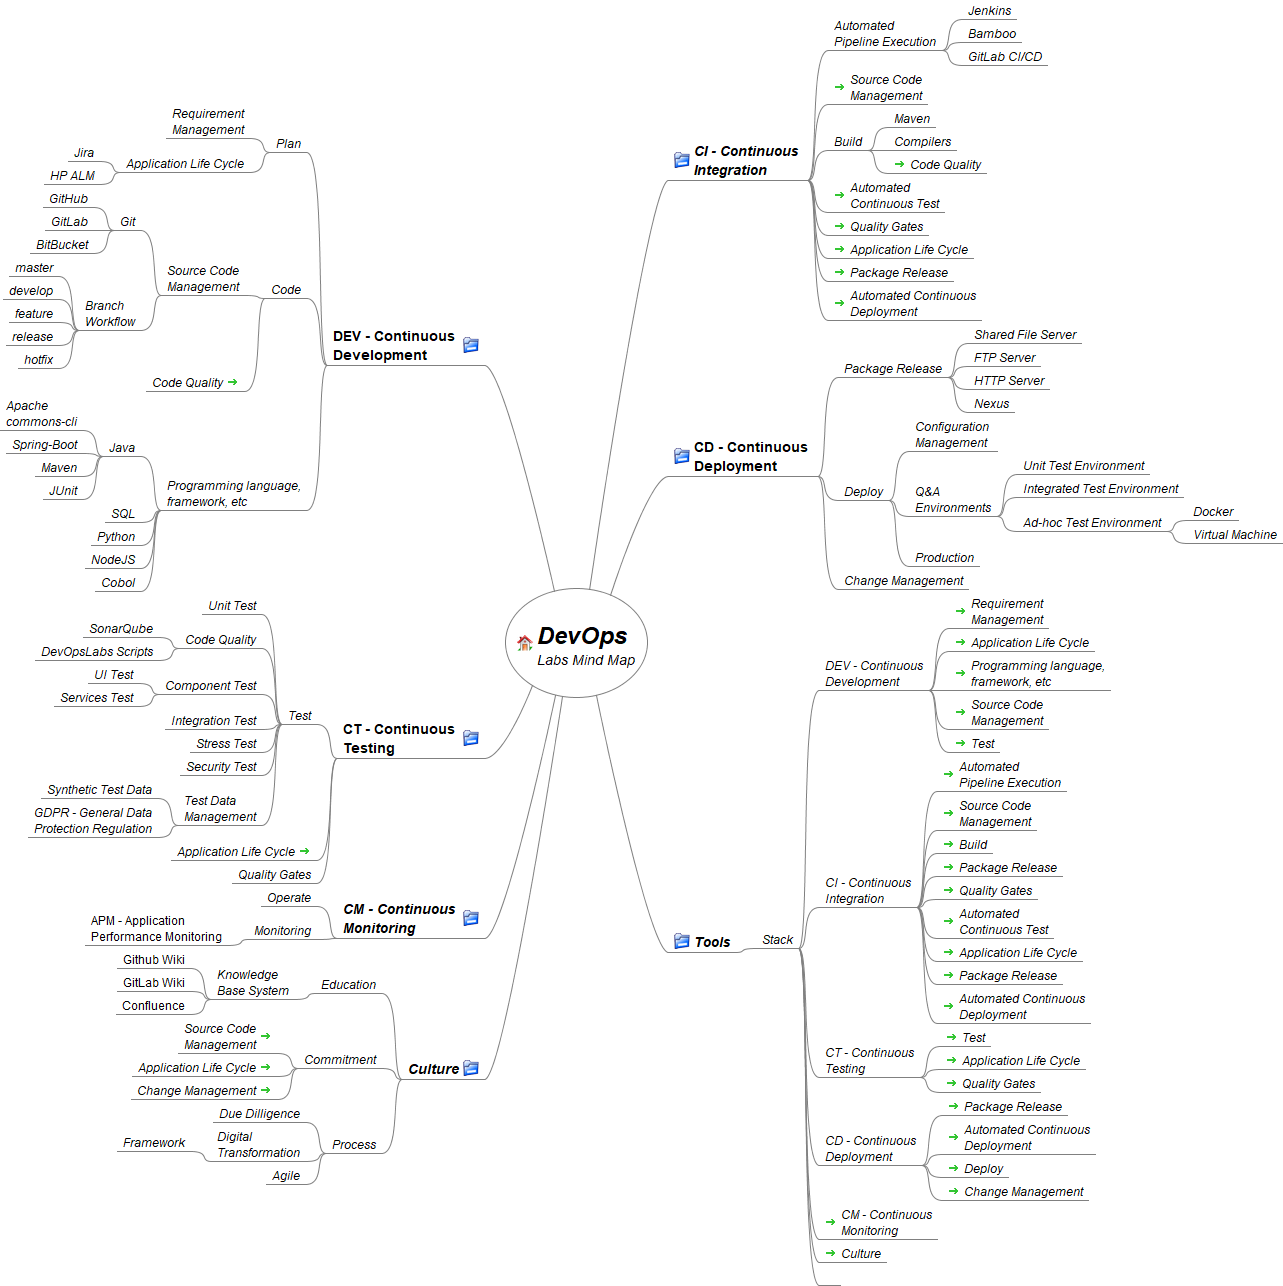
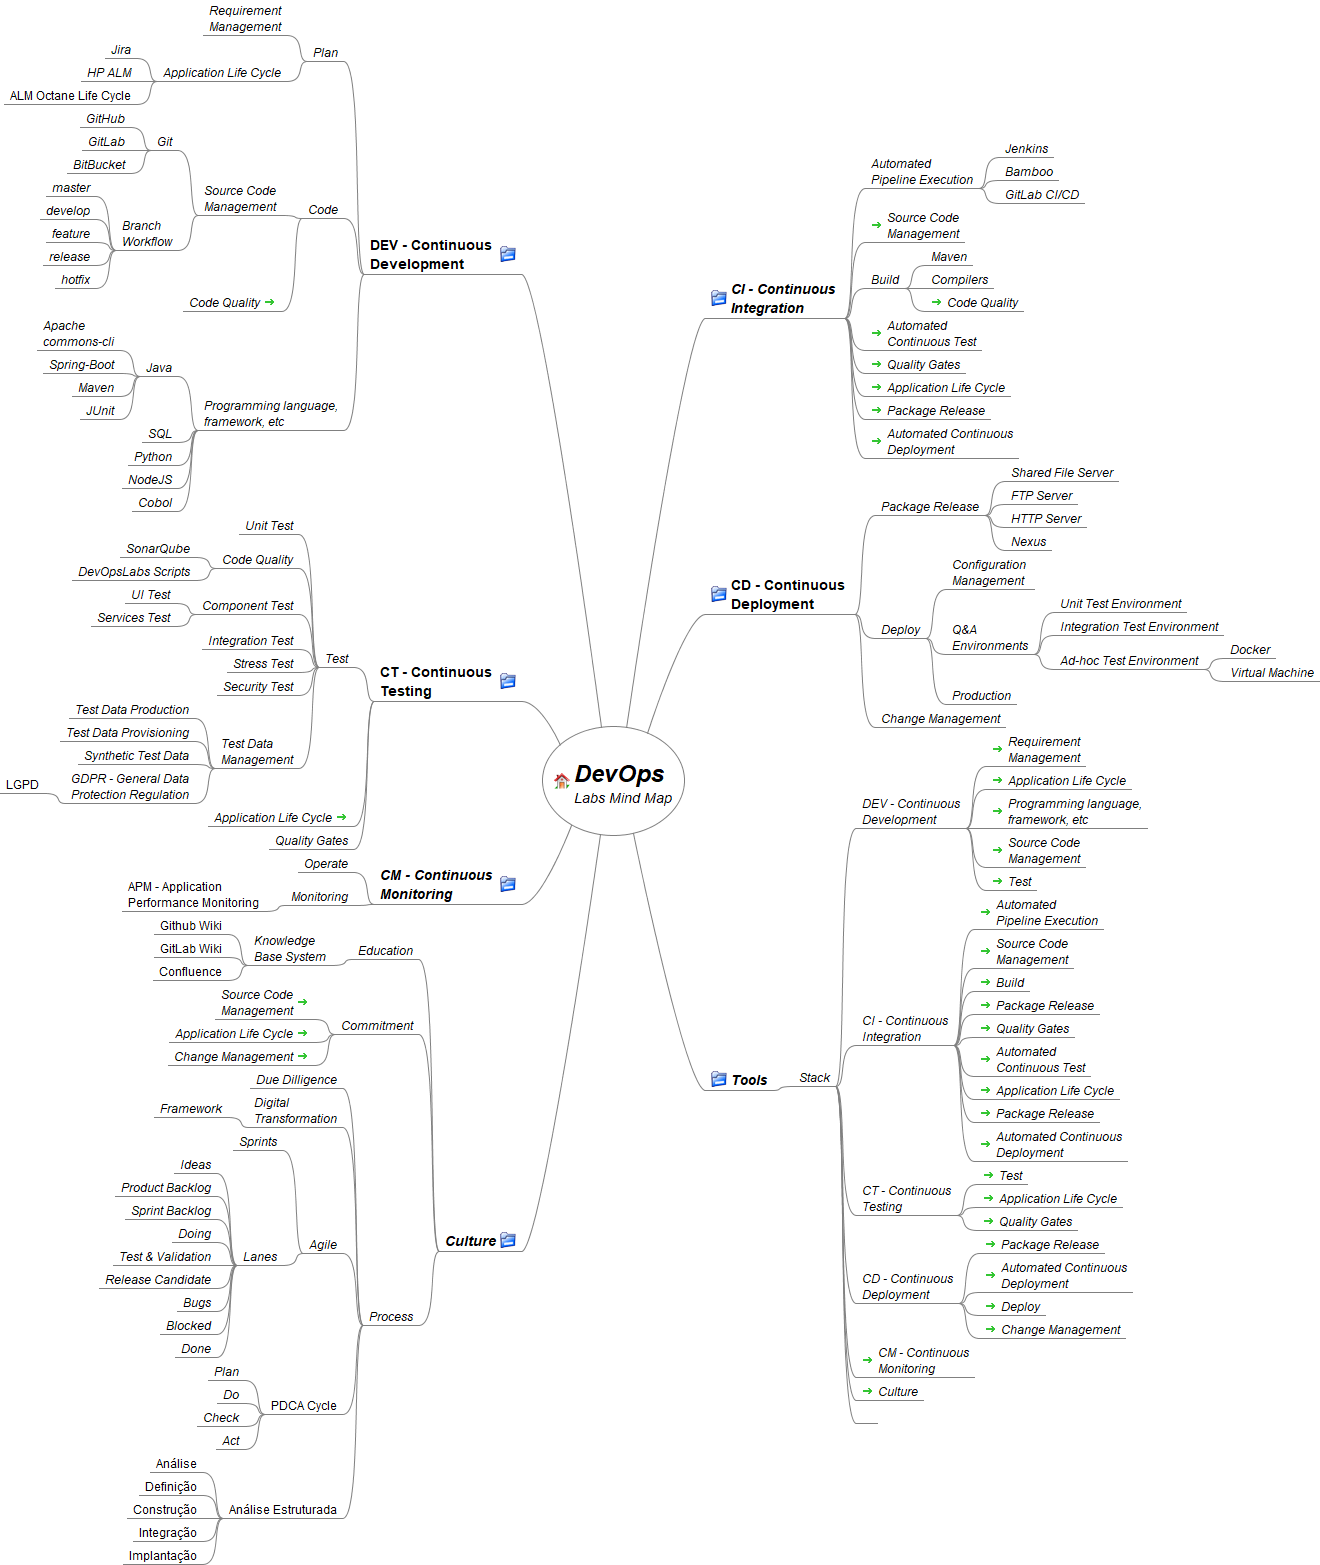
process > metodos: PDCA Cycle, Agile, Analise Estruturada

diff --git a/doc/mind-maps/MindMap DevOps.mm b/doc/mind-maps/MindMap DevOps.mm
@@ -32,7 +32,7 @@
 </html></richcontent>
 <font BOLD="true" NAME="SansSerif" SIZE="12"/>
 <icon BUILTIN="folder"/>
-<node CREATED="1560512150274" FOLDED="true" ID="ID_508662412" MODIFIED="1602895738822" TEXT="Plan">
+<node CREATED="1560512150274" ID="ID_508662412" MODIFIED="1607515206510" TEXT="Plan">
 <font ITALIC="true" NAME="SansSerif" SIZE="12"/>
 <node CREATED="1561258133619" ID="ID_437460015" MODIFIED="1561755103323">
 <richcontent TYPE="NODE"><html>
@@ -50,7 +50,7 @@
 </html></richcontent>
 <font ITALIC="true" NAME="SansSerif" SIZE="12"/>
 </node>
-<node CREATED="1580562665107" FOLDED="true" ID="ID_1334502738" MODIFIED="1602895682942">
+<node CREATED="1580562665107" ID="ID_1334502738" MODIFIED="1607515206687">
 <richcontent TYPE="NODE"><html>
   <head>
     
@@ -71,9 +71,9 @@
 <node CREATED="1602895522813" ID="ID_898859875" MODIFIED="1602895528495" TEXT="ALM Octane Life Cycle"/>
 </node>
 </node>
-<node CREATED="1560512156115" FOLDED="true" ID="ID_718213434" MODIFIED="1602895738822" TEXT="Code">
+<node CREATED="1560512156115" ID="ID_718213434" MODIFIED="1607515206515" TEXT="Code">
 <font ITALIC="true" NAME="SansSerif" SIZE="12"/>
-<node CREATED="1561256637139" FOLDED="true" ID="ID_1263394487" MODIFIED="1602895682943">
+<node CREATED="1561256637139" ID="ID_1263394487" MODIFIED="1607515206691">
 <richcontent TYPE="NODE"><html>
   <head>
     
@@ -88,7 +88,7 @@
   </body>
 </html></richcontent>
 <font ITALIC="true" NAME="SansSerif" SIZE="12"/>
-<node CREATED="1561754399949" FOLDED="true" ID="ID_113286676" MODIFIED="1602895682636" TEXT="Git">
+<node CREATED="1561754399949" ID="ID_113286676" MODIFIED="1607515206853" TEXT="Git">
 <font ITALIC="true" NAME="SansSerif" SIZE="12"/>
 <node CREATED="1561754404189" ID="ID_398705085" MODIFIED="1561755103323" TEXT="GitHub">
 <font ITALIC="true" NAME="SansSerif" SIZE="12"/>
@@ -100,7 +100,7 @@
 <font ITALIC="true" NAME="SansSerif" SIZE="12"/>
 </node>
 </node>
-<node CREATED="1561755369994" FOLDED="true" ID="ID_481670892" MODIFIED="1602895682636">
+<node CREATED="1561755369994" ID="ID_481670892" MODIFIED="1607515206857">
 <richcontent TYPE="NODE"><html>
   <head>
     
@@ -136,7 +136,7 @@
 <font ITALIC="true" NAME="SansSerif" SIZE="12"/>
 </node>
 </node>
-<node CREATED="1561305933484" FOLDED="true" ID="ID_876638900" MODIFIED="1602895738822">
+<node CREATED="1561305933484" ID="ID_876638900" MODIFIED="1607515206520">
 <richcontent TYPE="NODE"><html>
   <head>
     
@@ -151,7 +151,7 @@
   </body>
 </html></richcontent>
 <font ITALIC="true" NAME="SansSerif" SIZE="12"/>
-<node CREATED="1561306068484" FOLDED="true" ID="ID_336553295" MODIFIED="1602895682943" TEXT="Java">
+<node CREATED="1561306068484" ID="ID_336553295" MODIFIED="1607515206695" TEXT="Java">
 <font ITALIC="true" NAME="SansSerif" SIZE="12"/>
 <node CREATED="1561754703015" ID="ID_230933305" MODIFIED="1561755525629">
 <richcontent TYPE="NODE"><html>
@@ -219,12 +219,12 @@
 </html></richcontent>
 <font BOLD="true" NAME="SansSerif" SIZE="12"/>
 <icon BUILTIN="folder"/>
-<node CREATED="1560512179567" FOLDED="true" ID="ID_982319677" MODIFIED="1602895738822" TEXT="Test">
+<node CREATED="1560512179567" ID="ID_982319677" MODIFIED="1607515206528" TEXT="Test">
 <font ITALIC="true" NAME="SansSerif" SIZE="12"/>
 <node CREATED="1561256035460" ID="ID_1328115742" MODIFIED="1561755103323" TEXT="Unit Test">
 <font ITALIC="true" NAME="SansSerif" SIZE="12"/>
 </node>
-<node CREATED="1561756305611" FOLDED="true" ID="ID_1958808507" MODIFIED="1602895682944" TEXT="Code Quality">
+<node CREATED="1561756305611" ID="ID_1958808507" MODIFIED="1607515206697" TEXT="Code Quality">
 <font ITALIC="true" NAME="SansSerif" SIZE="12"/>
 <node CREATED="1561756651294" ID="ID_879888725" MODIFIED="1561756656208" TEXT="SonarQube">
 <font ITALIC="true" NAME="SansSerif" SIZE="12"/>
@@ -243,7 +243,7 @@
 <font ITALIC="true" NAME="SansSerif" SIZE="12"/>
 </node>
 </node>
-<node CREATED="1561754752432" FOLDED="true" ID="ID_10616941" MODIFIED="1602895682944" TEXT="Component Test">
+<node CREATED="1561754752432" ID="ID_10616941" MODIFIED="1607515206699" TEXT="Component Test">
 <font ITALIC="true" NAME="SansSerif" SIZE="12"/>
 <node CREATED="1561754803770" ID="ID_937249534" MODIFIED="1561755103323" TEXT="UI Test">
 <font ITALIC="true" NAME="SansSerif" SIZE="12"/>
@@ -261,7 +261,7 @@
 <node CREATED="1580563017539" ID="ID_642069048" MODIFIED="1580563021921" TEXT="Security Test">
 <font ITALIC="true" NAME="SansSerif" SIZE="12"/>
 </node>
-<node CREATED="1561754879897" FOLDED="true" ID="ID_1210781947" MODIFIED="1602895682944">
+<node CREATED="1561754879897" ID="ID_1210781947" MODIFIED="1607515206703">
 <richcontent TYPE="NODE"><html>
   <head>
     
@@ -285,7 +285,7 @@
 <node CREATED="1580563054120" ID="ID_855842324" MODIFIED="1580563074846" TEXT="Synthetic Test Data">
 <font ITALIC="true" NAME="SansSerif" SIZE="12"/>
 </node>
-<node CREATED="1580563083813" FOLDED="true" ID="ID_1522874440" MODIFIED="1602895682636">
+<node CREATED="1580563083813" ID="ID_1522874440" MODIFIED="1607515206858">
 <richcontent TYPE="NODE"><html>
   <head>
     
@@ -330,7 +330,7 @@
 <node CREATED="1560512194023" ID="ID_1743855136" MODIFIED="1561754323744" TEXT="Operate">
 <font ITALIC="true" NAME="SansSerif" SIZE="12"/>
 </node>
-<node CREATED="1560512197120" FOLDED="true" ID="ID_1998879544" MODIFIED="1602895738822" TEXT="Monitoring">
+<node CREATED="1560512197120" ID="ID_1998879544" MODIFIED="1607515206530" TEXT="Monitoring">
 <font ITALIC="true" NAME="SansSerif" SIZE="12"/>
 <node CREATED="1580563670439" ID="ID_615061923" MODIFIED="1580563686687">
 <richcontent TYPE="NODE"><html>
@@ -365,7 +365,7 @@
 </html></richcontent>
 <font ITALIC="true" NAME="SansSerif" SIZE="12"/>
 <icon BUILTIN="folder"/>
-<node CREATED="1561258037747" FOLDED="true" ID="ID_1932818956" MODIFIED="1602895738822">
+<node CREATED="1561258037747" ID="ID_1932818956" MODIFIED="1607515206533">
 <richcontent TYPE="NODE"><html>
   <head>
     
@@ -406,7 +406,7 @@
 </html></richcontent>
 <font ITALIC="true" NAME="SansSerif" SIZE="12"/>
 </node>
-<node CREATED="1560512177181" FOLDED="true" ID="ID_931000248" MODIFIED="1602895738822" TEXT="Build">
+<node CREATED="1560512177181" ID="ID_931000248" MODIFIED="1607515206536" TEXT="Build">
 <font ITALIC="true" NAME="SansSerif" SIZE="12"/>
 <node CREATED="1561754974588" ID="ID_111914914" MODIFIED="1561755103323" TEXT="Maven">
 <font ITALIC="true" NAME="SansSerif" SIZE="12"/>
@@ -476,7 +476,7 @@
 </html></richcontent>
 <font BOLD="true" NAME="SansSerif" SIZE="12"/>
 <icon BUILTIN="folder"/>
-<node CREATED="1560512185562" FOLDED="true" ID="ID_579638188" MODIFIED="1602895738822" TEXT="Package Release">
+<node CREATED="1560512185562" ID="ID_579638188" MODIFIED="1607515206539" TEXT="Package Release">
 <font ITALIC="true" NAME="SansSerif" SIZE="12"/>
 <node CREATED="1580816442000" ID="ID_277895464" MODIFIED="1580816785944" TEXT="Shared File Server">
 <font ITALIC="true" NAME="SansSerif" SIZE="12"/>
@@ -491,7 +491,7 @@
 <font ITALIC="true" NAME="SansSerif" SIZE="12"/>
 </node>
 </node>
-<node CREATED="1560512187847" FOLDED="true" ID="ID_1244701246" MODIFIED="1602895738822" TEXT="Deploy">
+<node CREATED="1560512187847" ID="ID_1244701246" MODIFIED="1607515206544" TEXT="Deploy">
 <font ITALIC="true" NAME="SansSerif" SIZE="12"/>
 <node CREATED="1561905635985" ID="ID_1304756611" MODIFIED="1561905649930">
 <richcontent TYPE="NODE"><html>
@@ -508,7 +508,7 @@
   </body>
 </html></richcontent>
 </node>
-<node CREATED="1561755141295" FOLDED="true" ID="ID_1018176172" MODIFIED="1602895682945">
+<node CREATED="1561755141295" ID="ID_1018176172" MODIFIED="1607515206706">
 <richcontent TYPE="NODE"><html>
   <head>
     
@@ -529,7 +529,7 @@
 <node CREATED="1580563800105" ID="ID_1282979503" MODIFIED="1581337032876" TEXT="Integration Test Environment">
 <font ITALIC="true" NAME="SansSerif" SIZE="12"/>
 </node>
-<node CREATED="1580563834563" FOLDED="true" ID="ID_585020028" MODIFIED="1602895682636" TEXT="Ad-hoc Test Environment">
+<node CREATED="1580563834563" ID="ID_585020028" MODIFIED="1607515206859" TEXT="Ad-hoc Test Environment">
 <font ITALIC="true" NAME="SansSerif" SIZE="12"/>
 <node CREATED="1580565271301" ID="ID_1103923230" MODIFIED="1580565274385" TEXT="Docker">
 <font ITALIC="true" NAME="SansSerif" SIZE="12"/>
@@ -560,9 +560,9 @@
 </html></richcontent>
 <font ITALIC="true" NAME="SansSerif" SIZE="12"/>
 <icon BUILTIN="folder"/>
-<node CREATED="1561213490096" FOLDED="true" ID="ID_112888288" MODIFIED="1602895738822" TEXT="Stack">
+<node CREATED="1561213490096" ID="ID_112888288" MODIFIED="1607515206555" TEXT="Stack">
 <font ITALIC="true" NAME="SansSerif" SIZE="12"/>
-<node CREATED="1561754196067" FOLDED="true" ID="ID_185870057" MODIFIED="1602895682945">
+<node CREATED="1561754196067" ID="ID_185870057" MODIFIED="1607515206712">
 <richcontent TYPE="NODE"><html>
   <head>
     
@@ -642,7 +642,7 @@
 <font ITALIC="true" NAME="SansSerif" SIZE="12"/>
 </node>
 </node>
-<node CREATED="1561754239862" FOLDED="true" ID="ID_1478510419" MODIFIED="1602895682946">
+<node CREATED="1561754239862" ID="ID_1478510419" MODIFIED="1607515206723">
 <richcontent TYPE="NODE"><html>
   <head>
     
@@ -737,7 +737,7 @@
 <font ITALIC="true" NAME="SansSerif" SIZE="12"/>
 </node>
 </node>
-<node CREATED="1561754199360" FOLDED="true" ID="ID_657577180" MODIFIED="1602895682946">
+<node CREATED="1561754199360" ID="ID_657577180" MODIFIED="1607515206725">
 <richcontent TYPE="NODE"><html>
   <head>
     
@@ -762,7 +762,7 @@
 <font ITALIC="true" NAME="SansSerif" SIZE="12"/>
 </node>
 </node>
-<node CREATED="1561754203562" FOLDED="true" ID="ID_1972211364" MODIFIED="1602895682947">
+<node CREATED="1561754203562" ID="ID_1972211364" MODIFIED="1607515206732">
 <richcontent TYPE="NODE"><html>
   <head>
     
@@ -838,9 +838,9 @@
 </html></richcontent>
 <font ITALIC="true" NAME="SansSerif" SIZE="12"/>
 <icon BUILTIN="folder"/>
-<node CREATED="1561156922814" FOLDED="true" ID="ID_284583337" MODIFIED="1602895738822" TEXT="Education">
+<node CREATED="1561156922814" ID="ID_284583337" MODIFIED="1607514804248" TEXT="Education">
 <font ITALIC="true" NAME="SansSerif" SIZE="12"/>
-<node CREATED="1561756061622" FOLDED="true" ID="ID_1195832005" MODIFIED="1602895682947">
+<node CREATED="1561756061622" ID="ID_1195832005" MODIFIED="1607515206734">
 <richcontent TYPE="NODE"><html>
   <head>
     
@@ -860,7 +860,7 @@
 <node CREATED="1561756183759" ID="ID_1090451672" MODIFIED="1580945700639" TEXT="Confluence"/>
 </node>
 </node>
-<node CREATED="1561156922814" FOLDED="true" ID="ID_423511767" MODIFIED="1602895738822" TEXT="Commitment">
+<node CREATED="1561156922814" ID="ID_423511767" MODIFIED="1607514804263" TEXT="Commitment">
 <font ITALIC="true" NAME="SansSerif" SIZE="12"/>
 <node CREATED="1561306436907" ID="ID_1587091865" LINK="#ID_1263394487" MODIFIED="1580564978495">
 <richcontent TYPE="NODE"><html>
@@ -885,12 +885,12 @@
 <font ITALIC="true" NAME="SansSerif" SIZE="12"/>
 </node>
 </node>
-<node CREATED="1561755642554" FOLDED="true" ID="ID_666309831" MODIFIED="1602895738822" TEXT="Process">
+<node CREATED="1561755642554" ID="ID_666309831" MODIFIED="1607514804268" TEXT="Process">
 <font ITALIC="true" NAME="SansSerif" SIZE="12"/>
 <node CREATED="1561755728910" ID="ID_1505249018" MODIFIED="1561755735589" TEXT="Due Dilligence">
 <font ITALIC="true" NAME="SansSerif" SIZE="12"/>
 </node>
-<node CREATED="1561757101309" FOLDED="true" ID="ID_815982526" MODIFIED="1602895682947">
+<node CREATED="1561757101309" ID="ID_815982526" MODIFIED="1607515206735">
 <richcontent TYPE="NODE"><html>
   <head>
     
@@ -909,8 +909,62 @@
 <font ITALIC="true" NAME="SansSerif" SIZE="12"/>
 </node>
 </node>
-<node CREATED="1580947795060" ID="ID_1786720944" MODIFIED="1580947798239" TEXT="Agile">
+<node CREATED="1580947795060" ID="ID_1786720944" MODIFIED="1607515206737" TEXT="Agile">
 <font ITALIC="true" NAME="SansSerif" SIZE="12"/>
+<node CREATED="1607515002118" ID="ID_3133484" MODIFIED="1607515006372" TEXT="Sprints">
+<font ITALIC="true" NAME="SansSerif" SIZE="12"/>
+</node>
+<node CREATED="1607515009501" ID="ID_1288847739" MODIFIED="1607515206863" TEXT="Lanes">
+<font ITALIC="true" NAME="SansSerif" SIZE="12"/>
+<node CREATED="1607515075439" ID="ID_126674401" MODIFIED="1607515198728" TEXT="Ideas">
+<font ITALIC="true" NAME="SansSerif" SIZE="12"/>
+</node>
+<node CREATED="1607515097583" ID="ID_21580604" MODIFIED="1607515198728" TEXT="Product Backlog">
+<font ITALIC="true" NAME="SansSerif" SIZE="12"/>
+</node>
+<node CREATED="1607515119261" ID="ID_891886488" MODIFIED="1607515198729" TEXT="Sprint Backlog">
+<font ITALIC="true" NAME="SansSerif" SIZE="12"/>
+</node>
+<node CREATED="1607515125025" ID="ID_613734197" MODIFIED="1607515198729" TEXT="Doing">
+<font ITALIC="true" NAME="SansSerif" SIZE="12"/>
+</node>
+<node CREATED="1607515131184" ID="ID_692133258" MODIFIED="1607515198729" TEXT="Test &amp; Validation">
+<font ITALIC="true" NAME="SansSerif" SIZE="12"/>
+</node>
+<node CREATED="1607515152677" ID="ID_547789920" MODIFIED="1607515198729" TEXT="Release Candidate">
+<font ITALIC="true" NAME="SansSerif" SIZE="12"/>
+</node>
+<node CREATED="1607515159703" ID="ID_173866638" MODIFIED="1607515198729" TEXT="Bugs">
+<font ITALIC="true" NAME="SansSerif" SIZE="12"/>
+</node>
+<node CREATED="1607515180781" ID="ID_866439092" MODIFIED="1607515198729" TEXT="Blocked">
+<font ITALIC="true" NAME="SansSerif" SIZE="12"/>
+</node>
+<node CREATED="1607515193574" ID="ID_857533616" MODIFIED="1607515198729" TEXT="Done">
+<font ITALIC="true" NAME="SansSerif" SIZE="12"/>
+</node>
+</node>
+</node>
+<node CREATED="1607514858828" ID="ID_521891188" MODIFIED="1607515206740" TEXT="PDCA Cycle">
+<node CREATED="1607515022690" ID="ID_1985276381" MODIFIED="1607515033624" TEXT="Plan">
+<font ITALIC="true" NAME="SansSerif" SIZE="12"/>
+</node>
+<node CREATED="1607515025663" ID="ID_1327775786" MODIFIED="1607515033624" TEXT="Do">
+<font ITALIC="true" NAME="SansSerif" SIZE="12"/>
+</node>
+<node CREATED="1607515027367" ID="ID_1910275050" MODIFIED="1607515033624" TEXT="Check">
+<font ITALIC="true" NAME="SansSerif" SIZE="12"/>
+</node>
+<node CREATED="1607515029892" ID="ID_1754027507" MODIFIED="1607515033624" TEXT="Act">
+<font ITALIC="true" NAME="SansSerif" SIZE="12"/>
+</node>
+</node>
+<node CREATED="1607514875748" ID="ID_1880928519" MODIFIED="1607515206743" TEXT="An&#xe1;lise Estruturada">
+<node CREATED="1607515041568" ID="ID_1591652291" MODIFIED="1607515043584" TEXT="An&#xe1;lise"/>
+<node CREATED="1607515046660" ID="ID_1060122909" MODIFIED="1607515049303" TEXT="Defini&#xe7;&#xe3;o"/>
+<node CREATED="1607515049984" ID="ID_1784787403" MODIFIED="1607515054328" TEXT="Constru&#xe7;&#xe3;o"/>
+<node CREATED="1607515054883" ID="ID_563563384" MODIFIED="1607515058767" TEXT="Integra&#xe7;&#xe3;o"/>
+<node CREATED="1607515059201" ID="ID_1574106429" MODIFIED="1607515065296" TEXT="Implanta&#xe7;&#xe3;o"/>
 </node>
 </node>
 </node>
